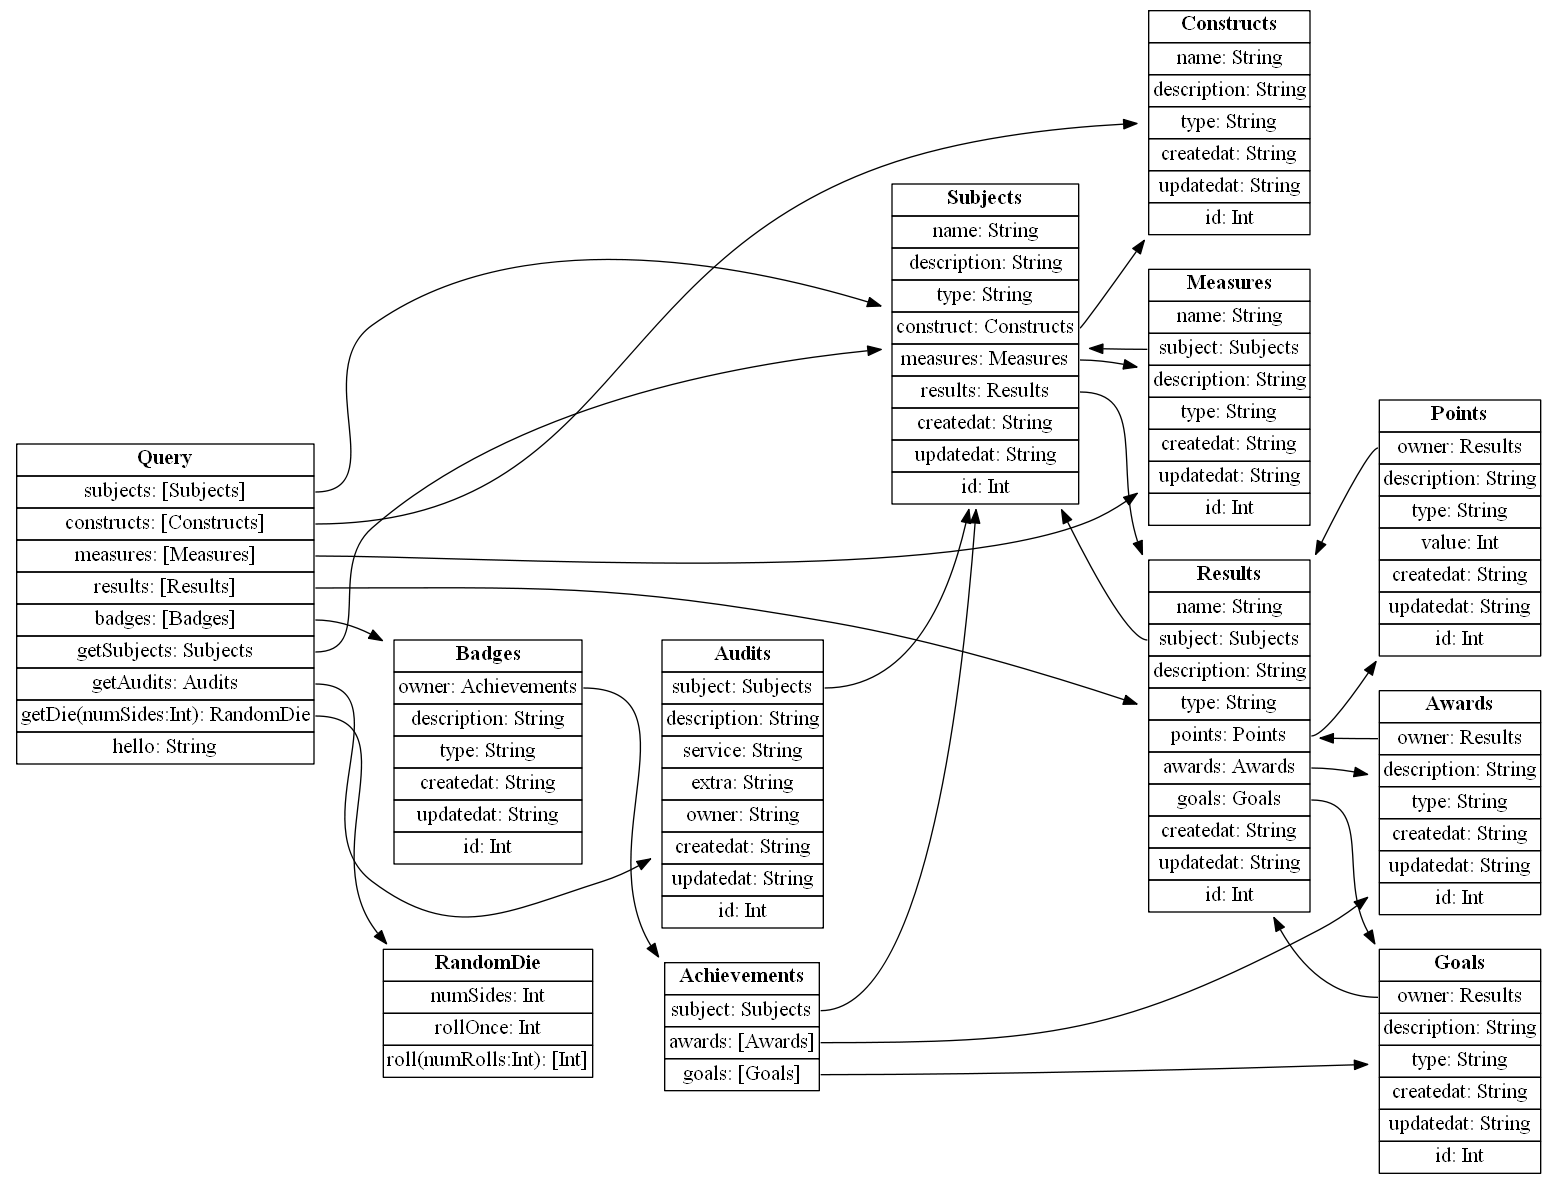
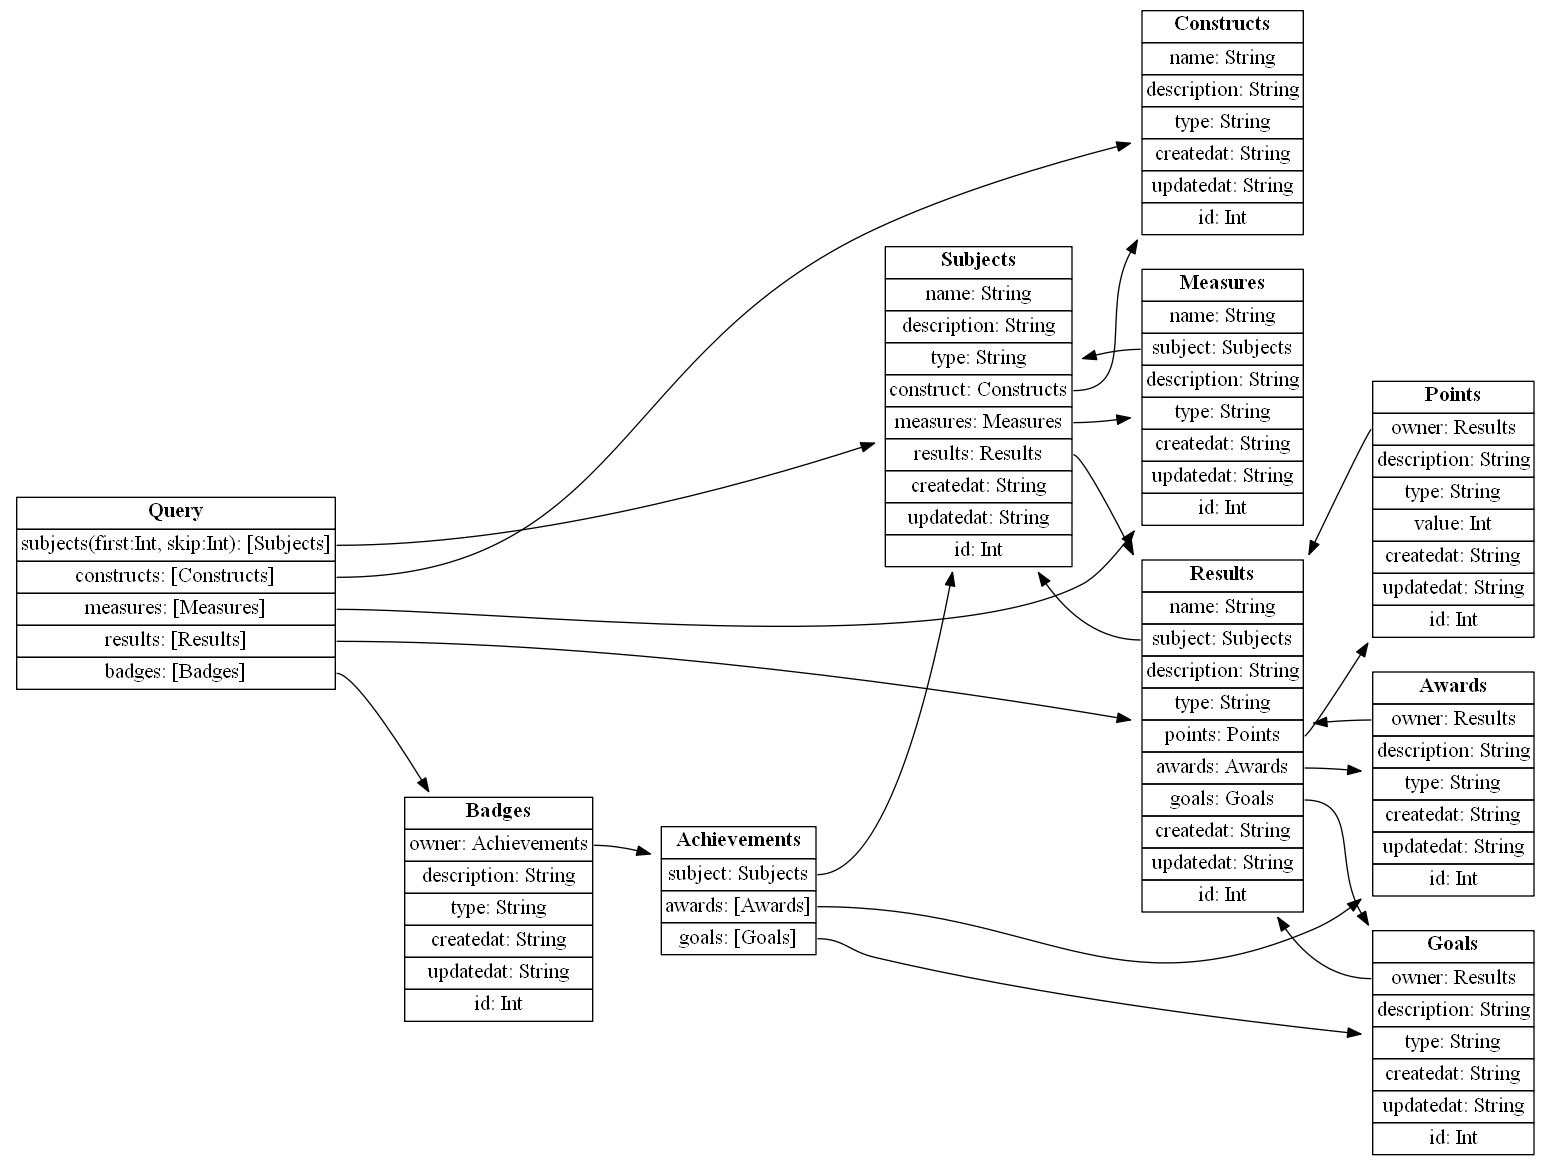
More changes for graphql

diff --git a/json-to-graphql/graphi.js b/json-to-graphql/graphi.js
@@ -7,16 +7,17 @@ var casual = require('casual');
 // Construct a schema, using GraphQL schema language
 var schema = buildSchema(`
   type Query {
-    subjects: [Subjects]
+    subjects(first: Int, skip: Int): [Subjects]
     constructs: [Constructs]
     measures: [Measures]
     results: [Results]
     badges: [Badges]
-    getSubjects: Subjects
-    getAudits: Audits
-    getDie(numSides: Int): RandomDie
-    hello: String
   }
+
+  #getSubjects: Subjects
+  #getAudits: Audits
+  #getDie(numSides: Int): RandomDie
+  #hello: String
 
   type Subjects {
     name: String
@@ -126,13 +127,12 @@ var schema = buildSchema(`
     id: Int
   }
 
-  type RandomDie {
-    numSides: Int!
-    rollOnce: Int!
-    roll(numRolls: Int!): [Int]
-  }
+  #type RandomDie {
+  # numSides: Int!
+  # rollOnce: Int!
+  # roll(numRolls: Int!): [Int]
+  #}
 `);
-
 
 // This class implements the RandomDie GraphQL type
 class Audits {
@@ -186,7 +186,7 @@ class RandomDie {
 
 // The root provides the top-level API endpoints
 var root = {
-  subjects: function () { 
+  subjects: function ({first, skip}) { 
     var subjectsList = [new Subjects(),new Subjects(),new Subjects(),new Subjects(),new Subjects()];
     var count = 0;
     subjectsList[count].name = casual.name;
@@ -259,19 +259,27 @@ var root = {
     subjectsList[count].results.id = count;
     subjectsList[count++].id = count;
 
-    return subjectsList
-  },
-  getSubjects: function () {
-    return new Subjects();
-  },
-  getAudits: function () {
-    return new Audits();
-  },
-  hello: function () { 
-    return "world"
+    var finalList = subjectsList;
+    if(first && first > 0) {
+      finalList = [first];
+      var j=0;
+      if(typeof skip === 'undefined') {
+        skip = 0;
+      }
+      for(var i=0; i<first && first < subjectsList.length; i++) {
+        if(i >= skip) {
+          finalList[j] = subjectsList[i];
+          j++;
+        }
+      }
+    }
+    return finalList
   },
   getDie: function ({numSides}) {
     return new RandomDie(numSides || 6);
+  },
+  hello: function () { 
+    return "world"
   }
 }
 
